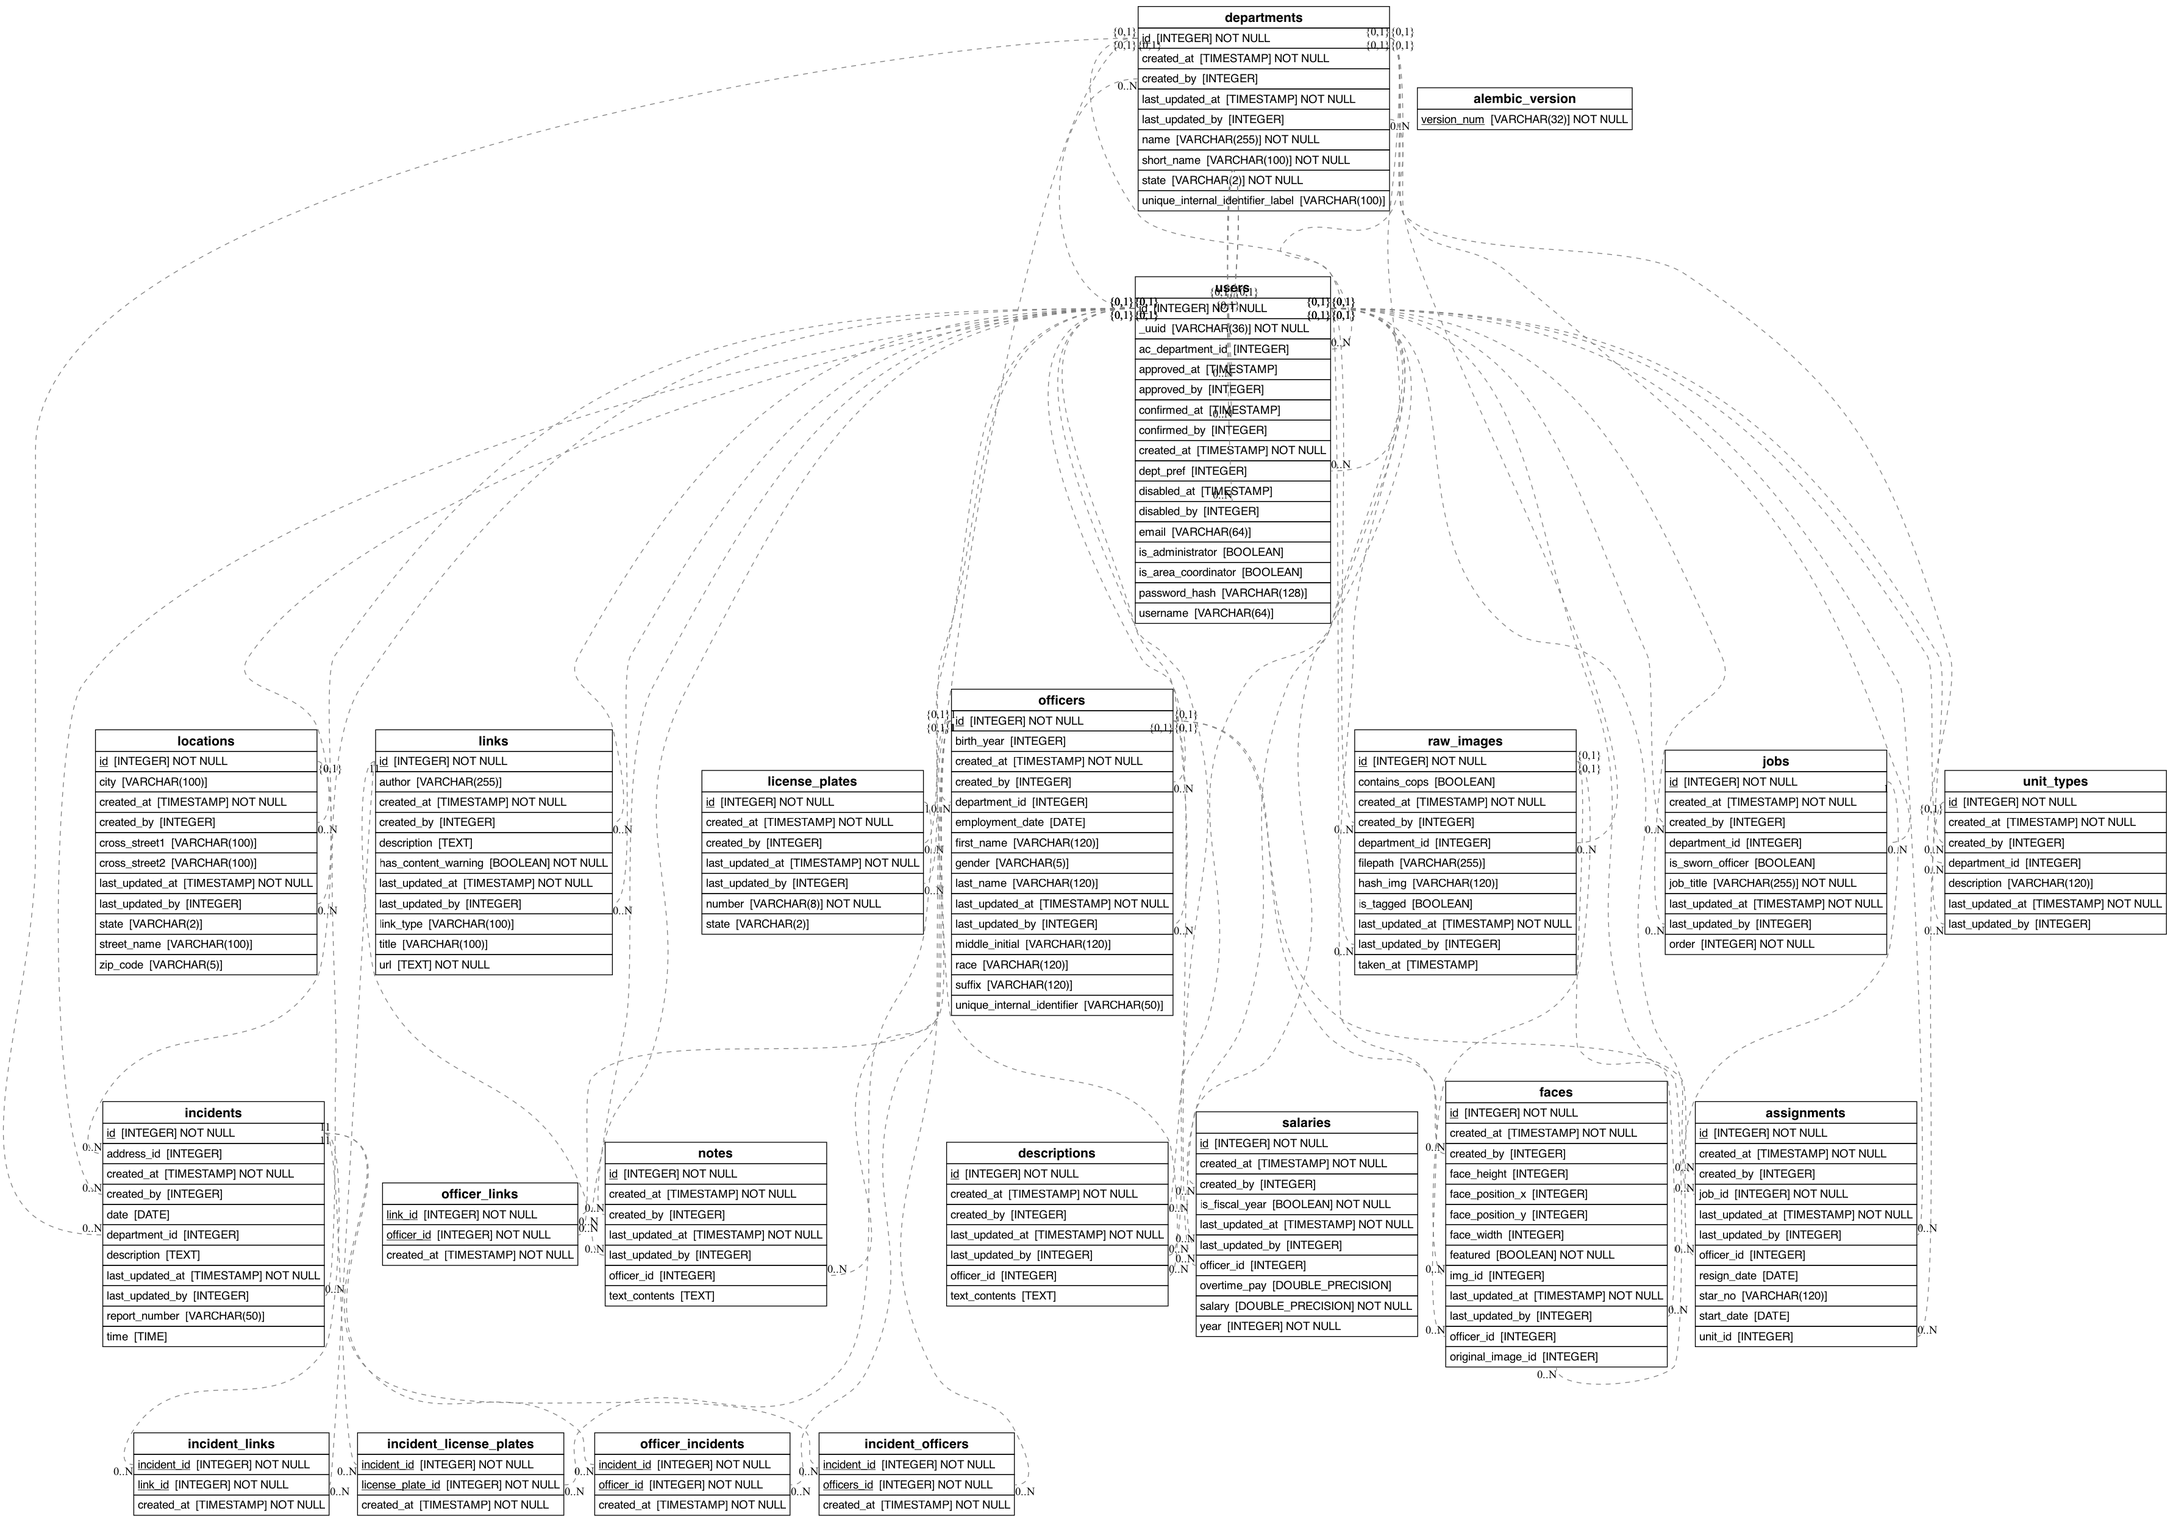
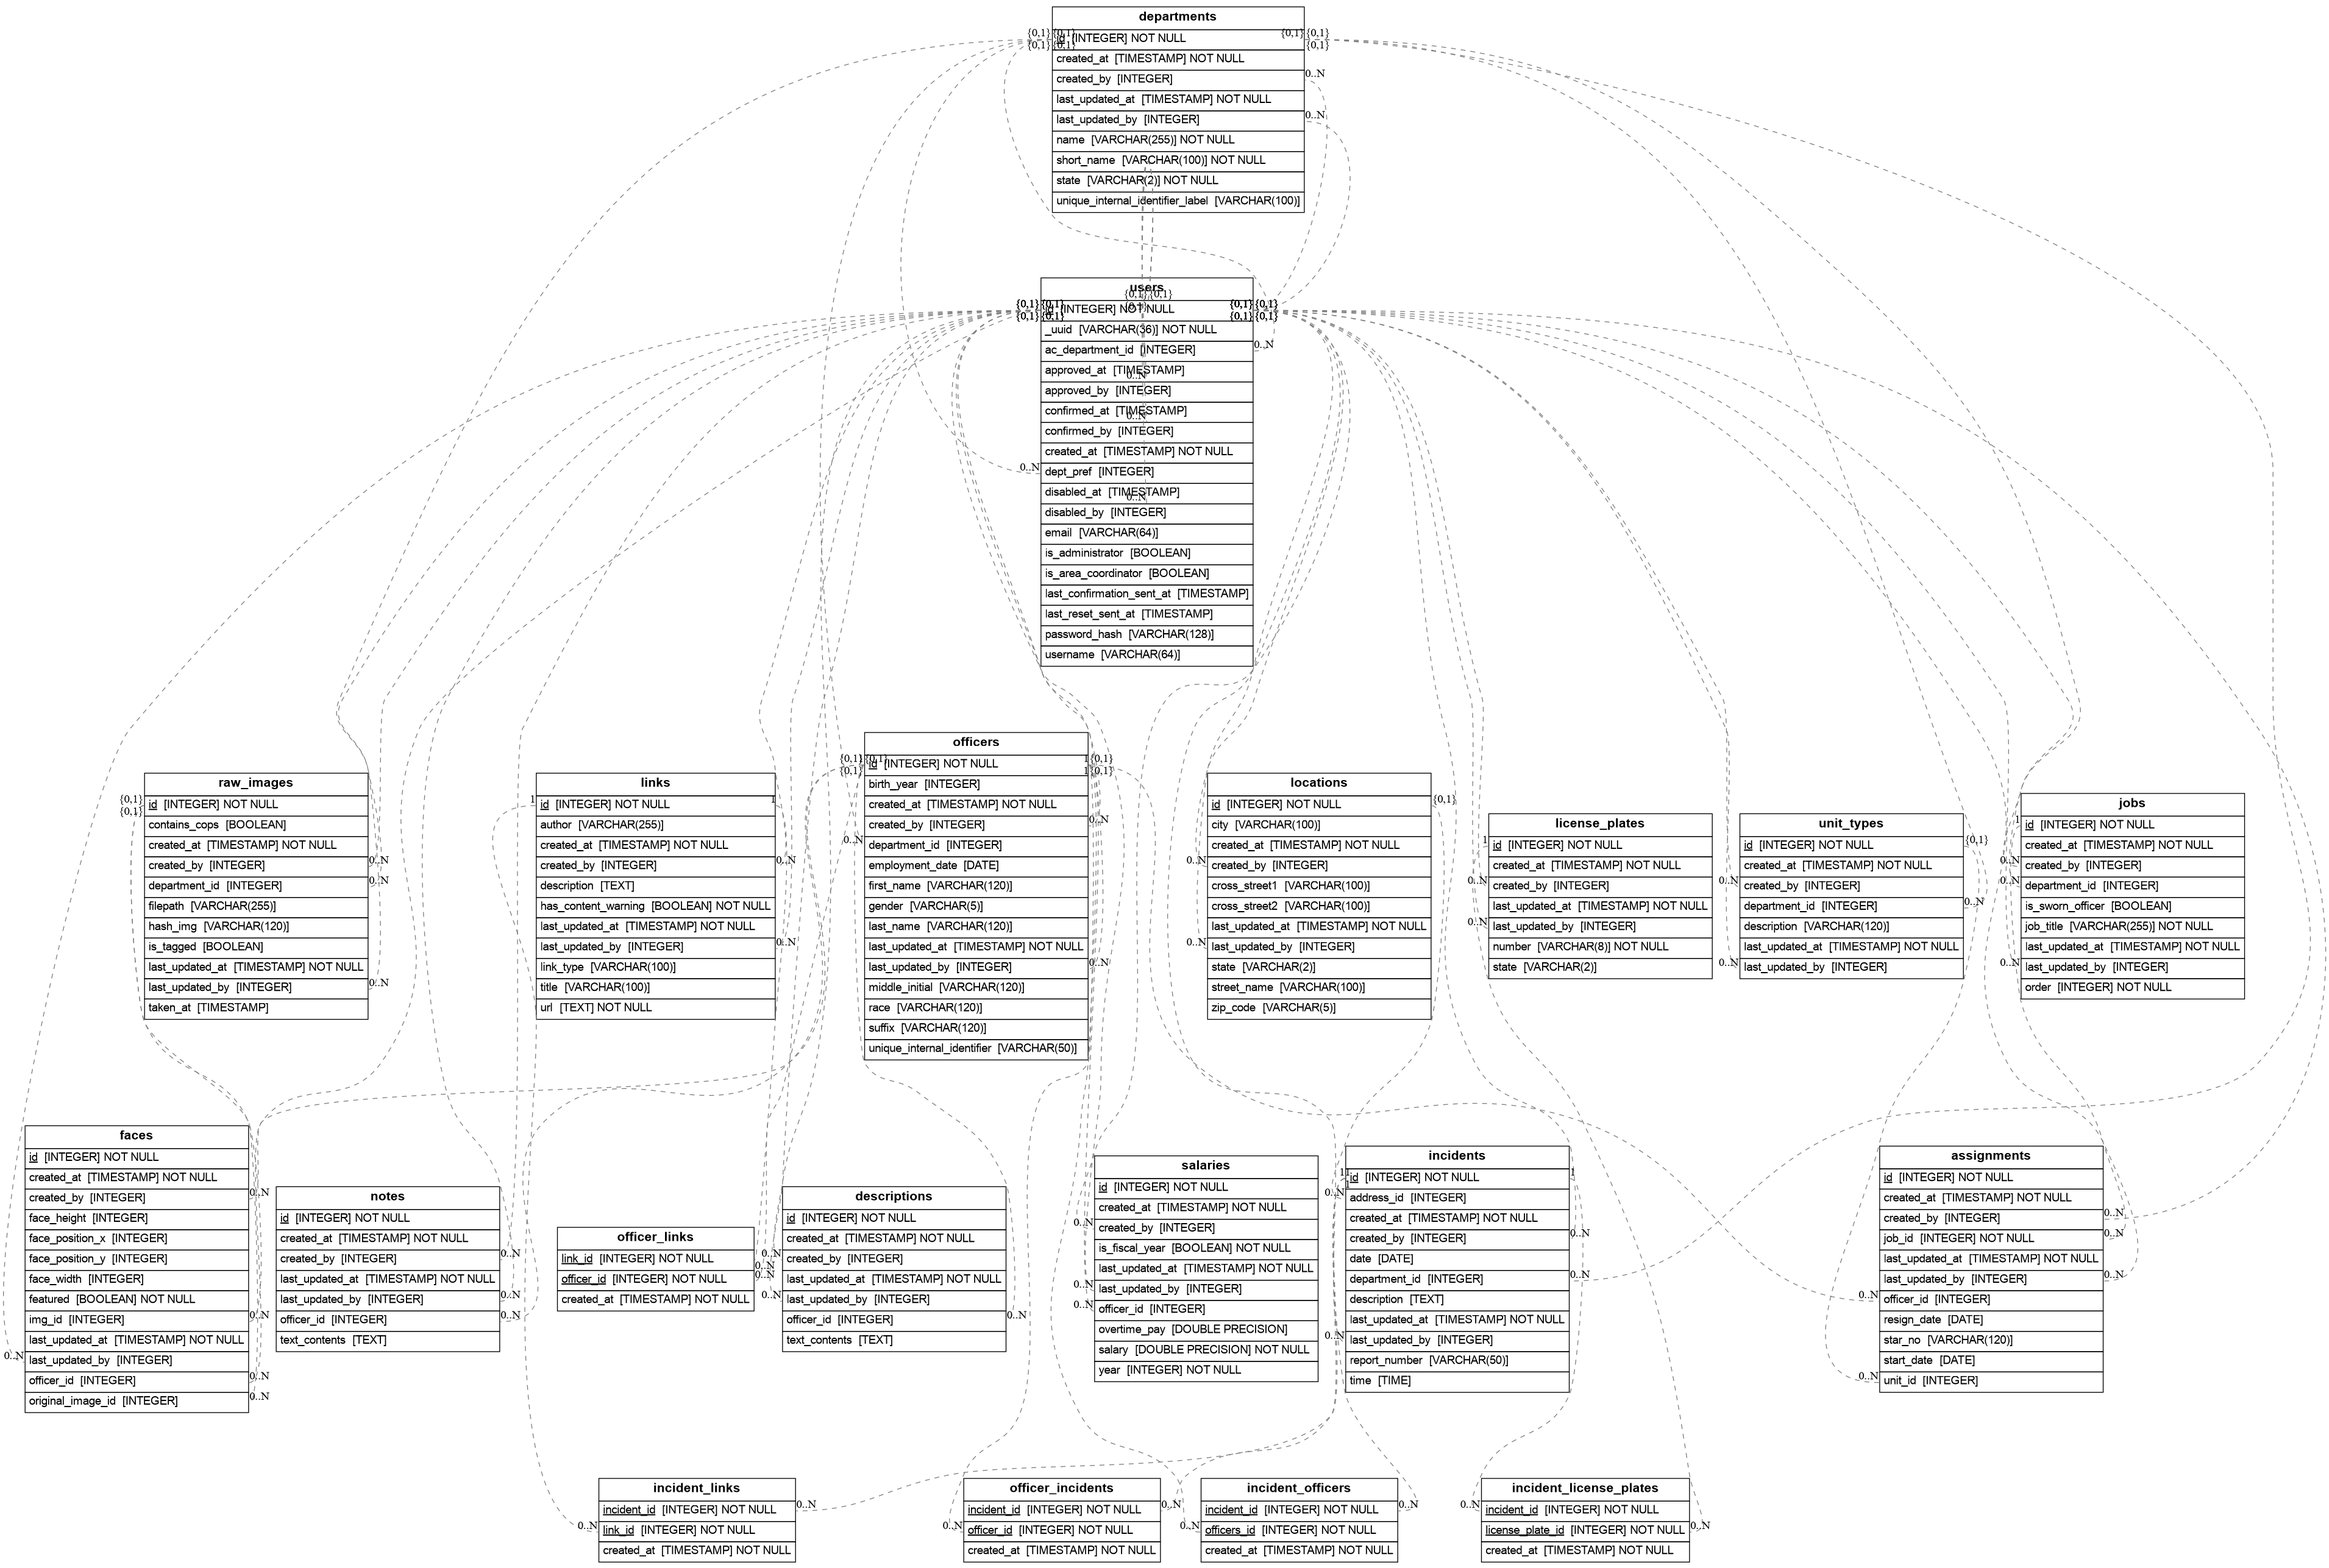
Merge commit from fork
* Rate limit account confirmation and password reset emails

* Address PR feedback

* Add help email to confirmation email

* Update database diagram

* Fix create_db_diagram

* Update database diagram

diff --git a/OpenOversight/app/templates/auth/email/confirm.html b/OpenOversight/app/templates/auth/email/confirm.html
@@ -7,6 +7,7 @@
 </p>
 <p>Alternatively, you can paste the following link in your browser's address bar:</p>
 <p>{{ url_for('auth.confirm', token=token, _external=True) }}</p>
+<p>If you did not create this account, reach out to {{ help_email }} to disable your account.</p>
 <p>Sincerely,</p>
 <p>The OpenOversight Team</p>
 <p>

diff --git a/OpenOversight/tests/routes/test_auth.py b/OpenOversight/tests/routes/test_auth.py
@@ -1,3 +1,4 @@
+from datetime import datetime, timedelta, timezone
 from http import HTTPStatus
 from unittest import TestCase
 from urllib.parse import urlparse
@@ -204,6 +205,49 @@ def test_user_can_get_a_confirmation_token_resent(client, session):
         )
 
 
+@pytest.mark.parametrize(
+    "last_confirmation_sent_at,is_rate_limited",
+    [
+        (None, False),
+        (datetime.now(timezone.utc) - timedelta(hours=2), False),
+        (datetime.now(timezone.utc) - timedelta(minutes=10), True),
+    ],
+)
+def test_user_rate_limited_if_resending_confirmation_too_soon(
+    client, session, last_confirmation_sent_at, is_rate_limited
+):
+    # Should only send email if not rate limited
+    log_capture = TestCase.assertNoLogs if is_rate_limited else TestCase.assertLogs
+
+    with (
+        current_app.test_request_context(),
+        log_capture(current_app.logger) as log,
+    ):
+        _, user = login_user(client)
+        user.last_confirmation_sent_at = last_confirmation_sent_at
+        session.commit()
+
+        rv = client.get(url_for("auth.resend_confirmation"), follow_redirects=True)
+
+        if not is_rate_limited:
+            assert b"A new confirmation email has been sent to you." in rv.data
+            assert (
+                f"{current_app.config[KEY_OO_MAIL_SUBJECT_PREFIX]} Confirm Your Account"
+                in str(log.output)
+            )
+
+            # check that confirmation time was updated
+            assert user.last_confirmation_sent_at > datetime.now(
+                timezone.utc
+            ) - timedelta(seconds=1)
+        else:
+            assert (
+                b"We already sent a confirmation email to you recently. Please try again later."
+                in rv.data
+            )
+            assert user.last_confirmation_sent_at == last_confirmation_sent_at
+
+
 def test_user_can_get_password_reset_token_sent(client, session):
     with (
         current_app.test_request_context(),
@@ -246,6 +290,49 @@ def test_user_can_get_password_reset_token_sent_with_differently_cased_email(
             f"{current_app.config[KEY_OO_MAIL_SUBJECT_PREFIX]} Reset Your Password"
             in str(log.output)
         )
+
+
+@pytest.mark.parametrize(
+    "last_reset_sent_at,is_rate_limited",
+    [
+        (None, False),
+        (datetime.now(timezone.utc) - timedelta(hours=2), False),
+        (datetime.now(timezone.utc) - timedelta(minutes=10), True),
+    ],
+)
+def test_user_rate_limited_if_resending_reset_too_soon(
+    client, session, last_reset_sent_at, is_rate_limited
+):
+    with (
+        current_app.test_request_context(),
+        TestCase.assertLogs(current_app.logger) as log,
+    ):
+        user = User.query.filter_by(is_administrator=True).first()
+        user.last_reset_sent_at = last_reset_sent_at
+        session.commit()
+
+        form = PasswordResetRequestForm(email=user.email)
+        rv = client.post(
+            url_for("auth.password_reset_request"),
+            data=form.data,
+            follow_redirects=True,
+        )
+
+        assert b"An email with instructions to reset your password" in rv.data
+        if not is_rate_limited:
+            assert (
+                f"{current_app.config[KEY_OO_MAIL_SUBJECT_PREFIX]} Reset Your Password"
+                in str(log.output)
+            )
+            assert user.last_reset_sent_at > datetime.now(timezone.utc) - timedelta(
+                seconds=1
+            )
+        else:
+            assert (
+                f"{current_app.config[KEY_OO_MAIL_SUBJECT_PREFIX]} Reset Your Password"
+                not in str(log.output)
+            )
+            assert user.last_reset_sent_at == last_reset_sent_at
 
 
 def test_user_can_get_reset_password_with_valid_token(client, session):

diff --git a/OpenOversight/app/auth/views.py b/OpenOversight/app/auth/views.py
@@ -34,7 +34,10 @@ from OpenOversight.app.models.emails import (
     ResetPasswordEmail,
 )
 from OpenOversight.app.utils.auth import admin_required
-from OpenOversight.app.utils.constants import KEY_APPROVE_REGISTRATIONS
+from OpenOversight.app.utils.constants import (
+    KEY_APPROVE_REGISTRATIONS,
+    KEY_AUTH_EMAIL_COOLDOWN_HOURS,
+)
 from OpenOversight.app.utils.flask import sitemap
 from OpenOversight.app.utils.forms import set_dynamic_default
 from OpenOversight.app.utils.general import validate_redirect_url
@@ -175,6 +178,20 @@ def confirm(token):
 @auth.get("/confirm")
 @login_required
 def resend_confirmation():
+    now = datetime.now(timezone.utc)
+    if (
+        current_user.last_confirmation_sent_at
+        and current_user.last_confirmation_sent_at
+        > now - current_app.config[KEY_AUTH_EMAIL_COOLDOWN_HOURS]
+    ):
+        flash(
+            "We already sent a confirmation email to you recently. Please try again later."
+        )
+        return redirect(url_for("main.index"))
+
+    current_user.last_confirmation_sent_at = now
+    db.session.commit()
+
     token = current_user.generate_confirmation_token()
     EmailClient.send_email(
         ConfirmAccountEmail(current_user.email, user=current_user, token=token)
@@ -211,11 +228,21 @@ def password_reset_request():
     form = PasswordResetRequestForm()
     if form.validate_on_submit():
         user = User.by_email(form.email.data).first()
-        if user:
+        now = datetime.now(timezone.utc)
+        if user and (
+            not user.last_reset_sent_at
+            or user.last_reset_sent_at
+            < now - current_app.config[KEY_AUTH_EMAIL_COOLDOWN_HOURS]
+        ):
+            user.last_reset_sent_at = now
+            db.session.commit()
+
             token = user.generate_reset_token()
             EmailClient.send_email(
                 ResetPasswordEmail(user.email, user=user, token=token)
             )
+        # Show message regardless of whether an email was sent to avoid revealing
+        # whether an account is associated with the email
         flash("An email with instructions to reset your password has been sent to you.")
         return redirect(url_for("auth.login"))
     else:

diff --git a/OpenOversight/app/models/database.py b/OpenOversight/app/models/database.py
@@ -25,6 +25,7 @@ from sqlalchemy.orm import (
     validates,
 )
 from sqlalchemy.sql import func as sql_func
+from sqlalchemy.types import TypeDecorator
 from werkzeug.security import check_password_hash, generate_password_hash
 
 from OpenOversight.app.models.database_cache import (
@@ -55,6 +56,28 @@ from OpenOversight.app.validators import state_validator, url_validator
 db = SQLAlchemy()
 jwt = JsonWebToken(SIGNATURE_ALGORITHM)
 Base: DeclarativeMeta = db.Model
+
+
+class TZDateTime(TypeDecorator):
+    """
+    Store tz-aware datetimes as tz-naive UTC datetimes in sqlite.
+    https://docs.sqlalchemy.org/en/20/core/custom_types.html#store-timezone-aware-timestamps-as-timezone-naive-utc
+    """
+
+    cache_ok = True
+    impl = db.DateTime
+
+    def process_bind_param(self, value, dialect):
+        if dialect.name == "sqlite" and value is not None:
+            if not value.tzinfo or value.tzinfo.utcoffset(value) is None:
+                raise TypeError("tzinfo is required")
+            value = value.astimezone(timezone.utc).replace(tzinfo=None)
+        return value
+
+    def process_result_value(self, value, dialect):
+        if dialect.name == "sqlite" and value is not None:
+            value = value.replace(tzinfo=timezone.utc)
+        return value
 
 
 class BaseModel(Base):
@@ -913,6 +936,8 @@ class User(UserMixin, BaseModel):
         db.ForeignKey("users.id", ondelete="SET NULL", name="users_disabled_by_fkey"),
         unique=False,
     )
+    last_confirmation_sent_at = db.Column(TZDateTime(timezone=True))
+    last_reset_sent_at = db.Column(TZDateTime(timezone=True))
 
     dept_pref = db.Column(
         db.Integer, db.ForeignKey("departments.id", name="users_dept_pref_fkey")

diff --git a/OpenOversight/tests/test_models.py b/OpenOversight/tests/test_models.py
@@ -1,6 +1,8 @@
 import datetime
 import random
 import time
+from unittest.mock import MagicMock
+from zoneinfo import ZoneInfo
 
 import pytest
 from pytest import raises
@@ -17,6 +19,7 @@ from OpenOversight.app.models.database import (
     Location,
     Officer,
     Salary,
+    TZDateTime,
     User,
 )
 from OpenOversight.app.utils.choices import STATE_CHOICES
@@ -733,3 +736,32 @@ def test_user_constraints(mockdata, session, faker, by_attr, at_attr):
     setattr(user, by_attr, 1)
     with pytest.raises(IntegrityError):
         session.commit()
+
+
+@pytest.mark.parametrize(
+    "dialect_name,original_value,intermediate_value",
+    [
+        ("sqlite", None, None),
+        (
+            "sqlite",
+            datetime.datetime(1980, 1, 1, hour=0, tzinfo=ZoneInfo("America/Chicago")),
+            datetime.datetime(1980, 1, 1, hour=6),
+        ),
+        ("postgresql", None, None),
+        (
+            "postgresql",
+            datetime.datetime(1980, 1, 1, hour=0, tzinfo=ZoneInfo("America/Chicago")),
+            datetime.datetime(1980, 1, 1, hour=0, tzinfo=ZoneInfo("America/Chicago")),
+        ),
+    ],
+)
+def test_tzdatetime_type_decorator(dialect_name, original_value, intermediate_value):
+    tzdt = TZDateTime(timezone=True)
+    dialect = MagicMock()
+    dialect.name = dialect_name
+
+    value = tzdt.process_bind_param(original_value, dialect)
+    assert intermediate_value == value
+
+    value = tzdt.process_result_value(value, dialect)
+    assert original_value == value

diff --git a/OpenOversight/app/models/config.py b/OpenOversight/app/models/config.py
@@ -1,8 +1,10 @@
 import json
 import os
+from datetime import timedelta
 
 from OpenOversight.app.utils.constants import (
     KEY_APPROVE_REGISTRATIONS,
+    KEY_AUTH_EMAIL_COOLDOWN_HOURS,
     KEY_DATABASE_URI,
     KEY_ENV,
     KEY_ENV_DEV,
@@ -83,6 +85,10 @@ class BaseConfig:
 
         # User settings
         self.APPROVE_REGISTRATIONS = os.environ.get(KEY_APPROVE_REGISTRATIONS, False)
+        # Time a user must wait between consecutive confirm account or reset password requests
+        self.AUTH_EMAIL_COOLDOWN_HOURS = timedelta(
+            hours=int(os.environ.get(KEY_AUTH_EMAIL_COOLDOWN_HOURS, 1))
+        )
 
         # Map data
         with open("OpenOversight/map.json") as f:
@@ -110,6 +116,8 @@ class TestingConfig(BaseConfig):
         self.SQLALCHEMY_ENGINE_OPTIONS = {
             "connect_args": {"cached_statements": 0},
         }
+        # Prevent user env settings from interfering with tests
+        self.AUTH_EMAIL_COOLDOWN_HOURS = timedelta(hours=1)
 
 
 class ProductionConfig(BaseConfig):

diff --git a/OpenOversight/migrations/versions/2025-04-04-0842_edab445d1714_add_email_last_sent_columns.py b/OpenOversight/migrations/versions/2025-04-04-0842_edab445d1714_add_email_last_sent_columns.py
@@ -1,0 +1,32 @@
+"""Add email last sent columns
+
+Revision ID: edab445d1714
+Revises: 99c50fc8d294
+Create Date: 2025-04-04 08:42:14.823515
+
+"""
+
+import sqlalchemy as sa
+from alembic import op
+
+
+revision = "edab445d1714"
+down_revision = "99c50fc8d294"
+
+
+def upgrade():
+    with op.batch_alter_table("users", schema=None) as batch_op:
+        batch_op.add_column(
+            sa.Column(
+                "last_confirmation_sent_at", sa.DateTime(timezone=True), nullable=True
+            )
+        )
+        batch_op.add_column(
+            sa.Column("last_reset_sent_at", sa.DateTime(timezone=True), nullable=True)
+        )
+
+
+def downgrade():
+    with op.batch_alter_table("users", schema=None) as batch_op:
+        batch_op.drop_column("last_reset_sent_at")
+        batch_op.drop_column("last_confirmation_sent_at")

diff --git a/OpenOversight/app/models/emails.py b/OpenOversight/app/models/emails.py
@@ -86,8 +86,18 @@ class ConfirmAccountEmail(Email):
         subject = (
             f"{current_app.config[KEY_OO_MAIL_SUBJECT_PREFIX]} Confirm Your Account"
         )
-        body = render_template(f"{self.EMAIL_PATH}confirm.txt", user=user, token=token)
-        html = render_template(f"{self.EMAIL_PATH}confirm.html", user=user, token=token)
+        body = render_template(
+            f"{self.EMAIL_PATH}confirm.txt",
+            user=user,
+            token=token,
+            help_email=current_app.config[KEY_OO_HELP_EMAIL],
+        )
+        html = render_template(
+            f"{self.EMAIL_PATH}confirm.html",
+            user=user,
+            token=token,
+            help_email=current_app.config[KEY_OO_HELP_EMAIL],
+        )
         super().__init__(body, html, subject, receiver)
 
 

diff --git a/OpenOversight/app/utils/constants.py b/OpenOversight/app/utils/constants.py
@@ -13,6 +13,7 @@ KEY_DEPT_TOTAL_OFFICERS = "total_department_officers"
 # Config Key Constants
 KEY_ALLOWED_EXTENSIONS = "ALLOWED_EXTENSIONS"
 KEY_APPROVE_REGISTRATIONS = "APPROVE_REGISTRATIONS"
+KEY_AUTH_EMAIL_COOLDOWN_HOURS = "AUTH_EMAIL_COOLDOWN_HOURS"
 KEY_DATABASE_URI = "SQLALCHEMY_DATABASE_URI"
 KEY_ENV = "ENV"
 KEY_ENV_DEV = "development"
